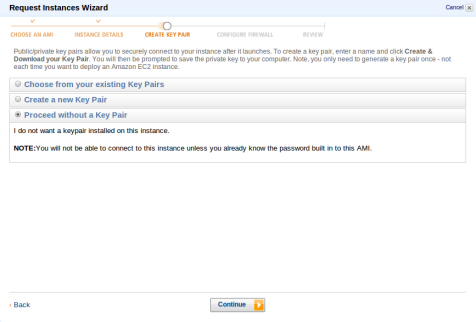
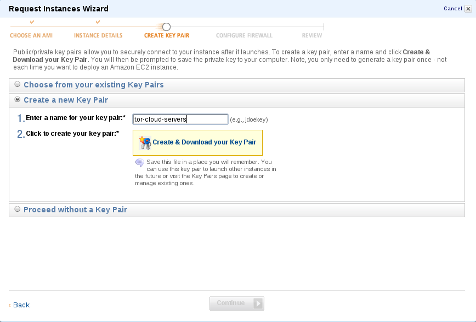
Updated the tor cloud documentation

diff --git a/html/index.html b/html/index.html
@@ -49,47 +49,51 @@
 	  <div class="main" role="main">
 	    <hgroup>
 	      <div class="deco first"></div>
-	      <h2>Tor Cloud on Amazon EC2</h2>
+	      <h2>Tor in the Amazon cloud</h2>
 	    </hgroup>
-	<p>The Tor Cloud is a user friendly way of deploying bridges
-	to help users in countries securely access the Internet,
-	free of censorship. By donating your bandwidth to the Tor
-        Network, you improve the safety and speed at which users
-        can access the Internet. <a href="https://www.torproject.org"
-        target="_blank">Learn more about Tor &raquo;</a></p>
+	<p>The Tor Cloud project gives you a user-friendly way of deploying
+	bridges to help users access an uncensored Internet. By setting up a
+	bridge, you donate bandwidth to the Tor network and help improve the
+	safety and speed at which users can access the Internet. <a
+		href="https://www.torproject.org"
+		target="_blank">Learn more about Tor &raquo;</a></p>
 	    <p>This project runs on the Amazon EC2 cloud computing
-	    platform, which powers Amazon.com and other major websites
-	    such as Netflix. Users are able to launch their own
-	    virtual machines and computing resources with flexible and
-	    cost-effective terms. The Tor network can always benefit from
-	    more volunteer bandwidth. <a href="http://aws.amazon.com/ec2/"
+	    platform, which powers Amazon.com and other major websites. Amazon
+	    EC2 allows users to launch their own virtual machines and computing
+	    resources with flexible and cost-effective terms. <a
+		    href="http://aws.amazon.com/ec2/"
 	    target="_blank">Learn more about Amazon EC2 &raquo;</a></p>
-	<p>Setting up a Tor bridge in the Amazon cloud is simple and
-	will only take you a couple of minutes. The images have all been
-	configured with automatic package updates and port forwarding, so you
-	do not have to worry about Tor not working or lacking security updates.
+	<p>Setting up a Tor bridge on Amazon EC2 is simple and will only take
+	you a couple of minutes. The images have been configured with automatic
+	package updates and port forwarding, so you do not have to worry about
+	Tor not working or the server not getting security updates.
 	<a href="https://cloud.torproject.org/#get_started" target="_blank">Get
 		started with Tor Cloud &raquo;</a></p>
 	    <hgroup>
 	      <div class="deco"></div>
-	      <h2>AWS Free Usage Tier</h2>
+	      <h2>How much does it cost?</h2>
 	    </hgroup>
-	    <p>750 hours of Amazon EC2 Linux Micro Instance usage,
-	    enough hours to run continuously each month.</p>
-	    <p class="footnote">* visit <a
-	    href="http://aws.amazon.com/free/"
+	    <p>To help new customers get started in the cloud, Amazon is
+	    introducing a free usage tier. The Tor Cloud images are all micro
+	    instances, and new customers will be able to run a free micro
+	    instance for a whole year. Please see <a href="http://aws.amazon.com/free/"
 	    target="_blank">http://aws.amazon.com/free/</a> for
 	    details. </p>
-	    <p>Don't qualify for the Free Tier? No problem, our images
-	    are configured to limit usage at $30/month based on Amazon
-	    fees.</p>
+	    <p>Don't qualify for the Free Tier? No problem. The Tor Cloud
+	    images have been <a href="torrc.txt">configured</a> with a
+	    bandwidth limit. We have <a
+		    href="https://trac.torproject.org/projects/tor/ticket/3574#comment:4">estimated</a>
+	    that running a bridge will cost around $30 a month, depending on
+	    the region you put it in. See the <a
+		    href="http://aws.amazon.com/ec2/pricing/">Amazon EC2
+		    Pricing</a> page for more information.</p>
 	  </div>
 
 <!-- Get Started -->
 	  <div class="main" role="main">
 	    <hgroup>
 	      <div class="deco first"></div>
-	      <h2>Sign up for an AWS account</h2>
+	      <h2>Sign up</h2>
 	    </hgroup>
 	    <p>Before you can set up a bridge, you need to sign up for
 	    an <i>Amazon <br> Web Services (AWS)</i> account.
@@ -102,16 +106,19 @@
 	    </p>
     	     <hgroup>
 	     <div class="deco"></div>
-	     <h2>Select type of relay and its location</h2>
+	     <h2>Select a region</h2>
 	     </hgroup>
-	    <p>The images below have been configured as public bridges.
-	    The cost of running a bridge in the Amazon Cloud depends on
-	    a number of factors, including the region you decide to
-	    put it in. See <a href="http://aws.amazon.com/ec2/pricing/">Amazon EC2
-	    Pricing</a> for more information.</p>
+	    <p>The images below are all configured as bridges.
+	    We have <a
+		    href="https://trac.torproject.org/projects/tor/ticket/3574#comment:4">estimated</a>
+	    that running a bridge will cost around $30 a month, depending on
+	    the region you put it in. See the <a
+		    href="http://aws.amazon.com/ec2/pricing/">Amazon EC2
+		    Pricing</a> page for more information.</p>
     <br>
 	    <ul class="region-nav">
-	    <li><a class="region" href="https://console.aws.amazon.com/ec2/home?region=us-east-1#launchAmi=ami-11af6d78" target="_blank">us-east-1<br>Virginia</a></li>
+	    <li><a class="region"
+		    href="https://console.aws.amazon.com/ec2/home?region=us-east-1#launchAmi=ami-11af6d78" target="_blank">us-east-1<br>Virginia</a></li>
 	    <li><a class="region" href="https://console.aws.amazon.com/ec2/home?region=us-west-1#launchAmi=ami-4bf9a40e" target="_blank">us-west-1<br>N. California</a></li>
 	    <li><a class="region"  href="https://console.aws.amazon.com/ec2/home?region=ap-northeast-1#launchAmi=ami-3807b239" target="_blank">ap-northeast-1<br>Tokyo</a></li>
 	    <li><a class="region"  href="https://console.aws.amazon.com/ec2/home?region=eu-west-1#launchAmi=ami-9c99aae8" target="_blank">eu-west-1<br>Ireland</a></li>
@@ -120,10 +127,12 @@
 
 	    <hgroup>
 	      <div class="deco"></div>
-	      <h2>Step by Step Process</h2>
+	      <h2>Step by step process</h2>
 	    </hgroup>
-	    <p>Once you have selected a relay and its location, you will be redirected to Amazon's management console.
-	    Simply follow the steps as illustrated below, and your relay will up and running in just a couple of minutes:</p>
+	    <p>After selecting the region, you will be redirected to Amazon's
+	    management console. Simply follow the steps as illustrated below,
+	    and your bridge will up and running in just a couple of
+	    minutes:</p>
 	    <div class='slider-wrapper theme-orman'>
 	      <div id='slider' class='nivoSlider'>
 		  <img src="img/tor-1.png" alt="" title="Click
@@ -133,14 +142,19 @@
 		  <img src="img/step-3.png" alt="" title="Click
 		  &quot;Continue&quot;. (No changes needed here.)"/>
 		  <img src="img/step-4.png" alt="" title="Select
-		  &quot;Proceed without Key Pair&quot; and click
-		  &quot;Continue&quot;."/>
+		  &quot;Create a new Key Pair&quot;, type
+		  &quot;tor-cloud-servers&quot; for key pair name, and
+		  click &quot;Create & Download your Key Pair&quot;. You will
+		  need the key pair if you want to connect to your instance
+		  using SSH."/>
 		  <img src="img/step-5.png" alt="" title="Select
-		  &quot;Create a new Security Policy&quot;,
+		  &quot;Create a new Security Group&quot;,
 		  type &quot;tor-cloud-servers&quot; for Group
-		  Name and Description. Select &quot;HTTPS&quot;
+		  Name and Group Description. You need to create two
+		  rules; HTTPS and SSH. Select &quot;HTTPS&quot;
 		  from the &quot;Create a new rule&quot; dropdown
-		  and click on &quot;Add Rule&quot;. Then Click
+		  and click on &quot;Add Rule&quot;. Do the same for
+		  SSH. Then click
 		  &quot;Continue&quot;."/>
 		  <img src="img/step-6.png" alt="" title="Click
 		  &quot;Launch&quot;."/>
@@ -171,7 +185,8 @@
 	SSH.</p>
 
 	<p><b>3. What's in the Tor configuration file?</b><br>
-	Answer here.</p>
+	The Tor configuration file that the images have been
+	configured with can be found <a href="torrc.txt">here</a>.</p>
 	
 	<p><b>4. Will the images automatically download and install package updates?</b><br>
 	Yes, the images have all been configured with the <a href="https://help.ubuntu.com/community/AutomaticSecurityUpdates"><i>unattended-upgrades</i></a> package. This means that your system will automatically download and install updates.</p>
@@ -189,7 +204,7 @@
 	Yes, simply join #tor on irc.oftc.net and ask your question. It may take a while before we get back to you, so please be patient.</p>
 
 	<p><b>8. I have a question that is not answered here, what do I do?</b><br>
-	Please send an email to <i>help AT rt.torproject.org</i> and we'll make sure it gets added to the list.</p>
+	Please send an email to <i>help AT rt.torproject.org</i>.</p>
 </div>
 
 	</div>
